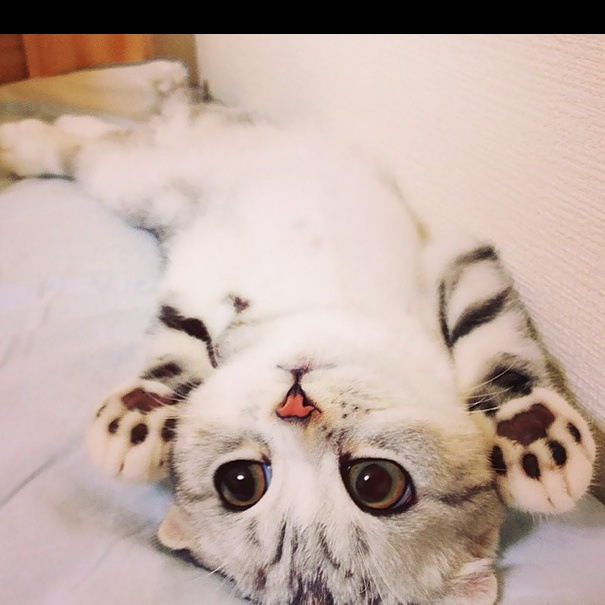
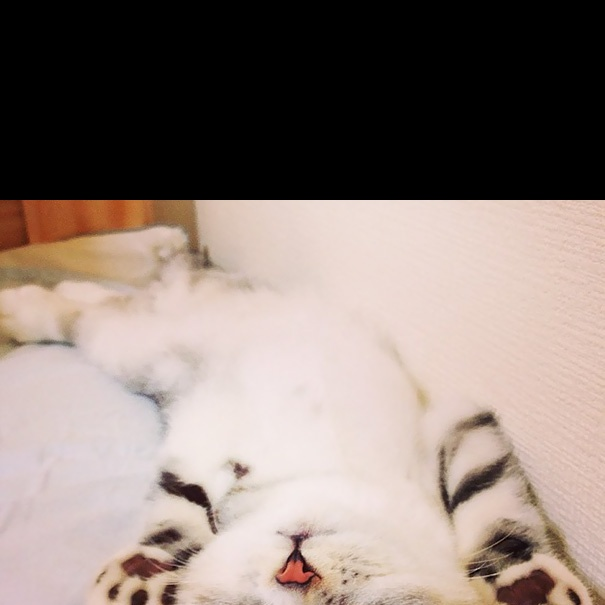
update

diff --git a/images/augmentation.py b/images/augmentation.py
@@ -542,11 +542,11 @@ if __name__ == '__main__':
         transformed_image = transform(image=image)
 
     elif augmentation == 'translatex':
-        transform = iaa.TranslateX(px=(0, 100))
+        transform = iaa.TranslateX(px=(200))
         transformed_image = transform(image=image)
 
     elif augmentation == 'translatey':
-        transform = iaa.TranslateY(px=(0, 100))
+        transform = iaa.TranslateY(px=(200))
         transformed_image = transform(image=image)
 
     ## Crop
